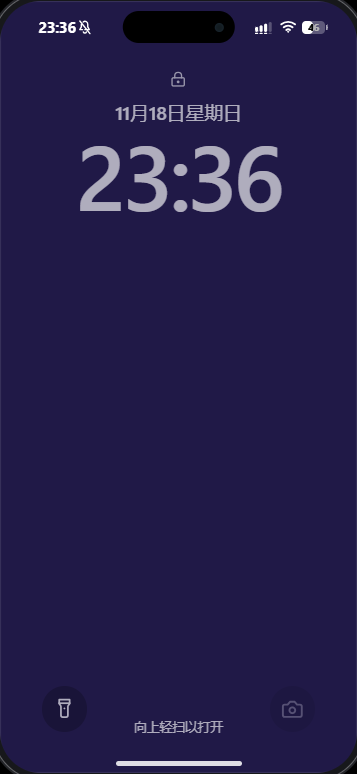
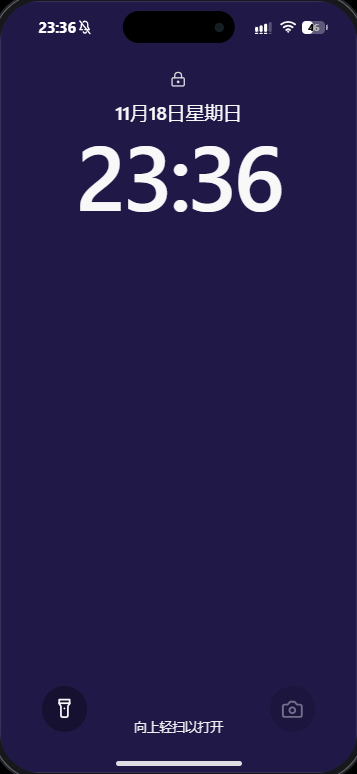
Add weather widget and enlarged calendar widget, weather app for 杭市, two-app dock

diff --git a/tests/release.spec.ts b/tests/release.spec.ts
@@ -1,6 +1,6 @@
 import { test, expect } from "@playwright/test";
 import { unlockPhone } from "./support/unlock";
-test("published default story, four dock apps and updated status bar", async ({
+test("published default story, home widgets and two dock apps", async ({
   page,
   request,
 }) => {
@@ -9,7 +9,7 @@ test("published default story, four dock apps and updated status bar", async ({
   expect(work.title).toBe("妈妈");
   expect(
     work.apps.filter((a: { installed: boolean }) => a.installed),
-  ).toHaveLength(12);
+  ).toHaveLength(13);
   expect(work.nodes).toHaveLength(0);
   const leftThread = (work.data.wechat ?? []).filter(
     (i: { title: string }) => i.title === "left",
@@ -24,7 +24,8 @@ test("published default story, four dock apps and updated status bar", async ({
     work.apps.filter(
       (a: { installed: boolean; dock: boolean }) => a.installed && a.dock,
     ),
-  ).toHaveLength(4);
+  ).toHaveLength(2);
+  expect(work.data.weather?.[0]?.title).toBe("杭市");
   const errors: string[] = [];
   page.on("pageerror", (e) => errors.push(e.message));
   await page.setViewportSize({ width: 393, height: 852 });
@@ -36,23 +37,57 @@ test("published default story, four dock apps and updated status bar", async ({
   await unlockPhone(page);
   await expect(page.locator(".lock-screen")).toHaveCount(0);
   await expect(page.locator(".interactive-home")).toHaveCSS("opacity", "1");
-  await expect(page.locator(".dock [data-home-key]")).toHaveCount(4);
+  await expect(page.locator(".dock [data-home-key]")).toHaveCount(2);
   await expect(page.locator(".status-silent")).toBeVisible();
   await expect(page.locator(".status-cellular")).toBeVisible();
   await expect(page.locator(".status-wifi")).toBeVisible();
+  // 天气卡 + 放大的日历卡靠上，其余 App 下移
+  const weatherWidget = page.getByRole("button", { name: "天气小组件" });
+  const calendarWidget = page.getByRole("button", { name: "日历小组件" });
+  await expect(weatherWidget).toBeVisible();
+  await expect(calendarWidget).toBeVisible();
+  const weatherBox = await weatherWidget.boundingBox();
+  const settingsBox = await page
+    .getByRole("button", { name: "打开设置" })
+    .boundingBox();
+  expect(weatherBox!.y).toBeLessThan(settingsBox!.y);
   await page
     .locator(".phone-screen")
     .screenshot({ path: "docs/images/home.png" });
   await page
     .locator(".status-bar")
     .screenshot({ path: "outputs/release/status-bar.png" });
-  // 精简版只保留 12 个 App，桌面不应再有 App Store / 其它内置应用
+  // 精简版桌面不应再有 App Store / 其它内置应用
   await expect(
     page.getByRole("button", { name: "打开App Store", exact: true }),
   ).toHaveCount(0);
   await expect(
     page.getByRole("button", { name: "打开抖音", exact: true }),
   ).toHaveCount(0);
+  // 天气小组件点击进入天气 App
+  await weatherWidget.click();
+  await expect(page.locator(".app-screen:not([inert])")).toHaveCSS(
+    "transform",
+    "none",
+  );
+  await expect(page.getByText("乌云转晴").first()).toBeVisible();
+  await page
+    .locator(".phone-screen")
+    .screenshot({ path: "docs/images/weather.png" });
+  await page.getByRole("button", { name: "返回桌面", exact: true }).click();
+  await expect(page.locator(".app-screen")).toHaveCount(0);
+  // 日历小组件点开日历 App，默认停在系统日期所在月份
+  await calendarWidget.click();
+  await expect(page.locator(".app-screen:not([inert])")).toHaveCSS(
+    "transform",
+    "none",
+  );
+  await expect(page.getByText("2040 年 11 月")).toBeVisible();
+  await page
+    .locator(".phone-screen")
+    .screenshot({ path: "docs/images/calendar.png" });
+  await page.getByRole("button", { name: "返回桌面", exact: true }).click();
+  await expect(page.locator(".app-screen")).toHaveCount(0);
   await page.getByRole("button", { name: "打开设置", exact: true }).click();
   await expect(page.getByRole("switch", { name: "飞行模式" })).toBeVisible();
   await expect(page.locator(".app-screen:not([inert])")).toHaveCSS(
@@ -64,7 +99,7 @@ test("published default story, four dock apps and updated status bar", async ({
     .screenshot({ path: "docs/images/settings.png" });
   await page.reload();
   await unlockPhone(page);
-  await expect(page.locator(".dock [data-home-key]")).toHaveCount(4);
+  await expect(page.locator(".dock [data-home-key]")).toHaveCount(2);
   expect(
     await page.evaluate(
       () => document.documentElement.scrollWidth <= innerWidth,

diff --git a/src/launcher/layout.test.ts b/src/launcher/layout.test.ts
@@ -1,5 +1,6 @@
 import { describe, it, expect } from "vitest";
 import blank from "../../stories/blank/story.json";
+import template from "../../stories/template/story.json";
 import { compileStory } from "../story-engine/compiler";
 import {
   defaultLayout,
@@ -95,8 +96,7 @@ it("adds store to legacy work without changing author data or other app states",
   ).toBe(true);
 });
 
-it("migrates preview folders once while preserving custom folders and widgets", async () => {
-  const preview = await import("../../stories/test-preview/story.json");
+it("migrates preview folders once while preserving custom folders and widgets", async () => {  const preview = await import("../../stories/test-preview/story.json");
   const w = compileStory(preview.default).work;
   const before = JSON.stringify(w);
   const old = defaultLayout(w);
@@ -116,4 +116,31 @@ it("migrates preview folders once while preserving custom folders and widgets", 
   expect(
     validateLayout(migrated, w).apps.find((a) => a.id === "wechat")!.folder,
   ).toBe("作者新建文件夹");
+});
+
+it("applies the story home preset: widgets on top, apps packed below", () => {
+  const w = compileStory(template).work;
+  const l = defaultLayout(w);
+  expect(l.widgets.map((x) => x.type)).toEqual(["weather", "calendar"]);
+  expect(l.widgets.map((x) => x.size)).toEqual(["small", "medium"]);
+  const pages = packHome(homeEntries(l), l.positions);
+  expect(pages).toHaveLength(1);
+  const cells = new Set<string>();
+  for (const entry of pages[0])
+    for (let y = entry.y; y < entry.y + entry.h; y++)
+      for (let x = entry.x; x < entry.x + entry.w; x++)
+        expect(cells.add(x + "," + y).size).toBe(cells.size);
+  const rows = (key: string) =>
+    pages[0].find((c) => c.entry.key === key)!.y;
+  expect(rows("widget-weather-home")).toBeLessThan(rows("calculator"));
+  expect(rows("widget-calendar-home")).toBeLessThan(rows("calculator"));
+  // Dock 只保留微信和备忘录，日历/天气由小组件代替
+  expect(
+    l.apps.filter((a) => a.installed && a.visible && a.dock).map((a) => a.id),
+  ).toEqual(["wechat", "notes"]);
+  expect(
+    l.apps.filter((a) => a.id === "calendar" || a.id === "weather").map(
+      (a) => a.visible,
+    ),
+  ).toEqual([false, false]);
 });

diff --git a/src/launcher/HomeLauncher.tsx b/src/launcher/HomeLauncher.tsx
@@ -65,15 +65,26 @@ function WidgetFace({
   const date = new Date((work.phone.date || "2026-10-25") + "T12:00:00Z");
   const weather = work.data.weather?.[0];
   return (
-    <div className={"widget-face widget-" + widget.type}>
+    <div
+      className={
+        "widget-face widget-" +
+        widget.type +
+        (widget.size === "small" ? "" : " widget-size-" + widget.size)
+      }
+    >
       {widget.type === "calendar" ? (
         <>
-          <span className="widget-red">
-            {new Intl.DateTimeFormat("zh-CN", {
-              weekday: "long",
-              timeZone: "UTC",
-            }).format(date)}
-          </span>
+          <div className="widget-calendar-head">
+            <span className="widget-red">
+              {new Intl.DateTimeFormat("zh-CN", {
+                weekday: "long",
+                timeZone: "UTC",
+              }).format(date)}
+            </span>
+            <span className="widget-calendar-month">
+              {date.getUTCMonth() + 1}月
+            </span>
+          </div>
           <b className="widget-day">{date.getUTCDate()}</b>
           <small>{work.data.calendar?.[0]?.title || "今天没有日程"}</small>
         </>
@@ -85,10 +96,21 @@ function WidgetFace({
         </>
       ) : widget.type === "weather" ? (
         <>
-          <small>{weather?.title || "未添加城市"}</small>
+          <div className="widget-weather-head">
+            <small>
+              {weather?.title || weather?.meta.locationLabel || "未添加城市"}
+            </small>
+            <CloudSun size={20} />
+          </div>
           <b>{weather?.meta.temperature || "—"}°</b>
-          <CloudSun size={27} />
-          <small>{weather?.meta.condition || "暂无天气数据"}</small>
+          <div className="widget-weather-foot">
+            <small>{weather?.meta.condition || "暂无天气数据"}</small>
+            {weather?.meta.high && (
+              <small>
+                {weather.meta.high}° / {weather.meta.low || "—"}°
+              </small>
+            )}
+          </div>
         </>
       ) : widget.type === "notes" ? (
         <>

diff --git a/src/launcher/layout.ts b/src/launcher/layout.ts
@@ -53,18 +53,74 @@ export function ensureAppStore(work: Work): Work {
         ],
       };
 }
+/** 作品默认桌面预设：小组件靠上、App 下移铺满（key = 作品 id） */
+const storyHomePresets: Record<
+  string,
+  {
+    widgets: { widget: Widget; at: [number, number] }[];
+    slots: [number, number][];
+  }
+> = {
+  // 《妈妈》：天气卡 + 放大的日历卡在上方，其余 App 依次排满下方
+  "foundphone-left": {
+    widgets: [
+      {
+        widget: { id: "widget-weather-home", type: "weather", size: "small" },
+        at: [2, 0],
+      },
+      {
+        widget: {
+          id: "widget-calendar-home",
+          type: "calendar",
+          size: "medium",
+        },
+        at: [0, 2],
+      },
+    ],
+    slots: [
+      [0, 0],
+      [1, 0],
+      [0, 1],
+      [1, 1],
+      [0, 4],
+      [1, 4],
+      [2, 4],
+      [3, 4],
+      [0, 5],
+      [1, 5],
+      [2, 5],
+      [3, 5],
+    ],
+  },
+};
 export function defaultLayout(input: Work): DeviceLayout {
   const w = ensureAppStore(input);
+  const preset = storyHomePresets[w.id];
+  const widgets = preset ? preset.widgets.map((x) => ({ ...x.widget })) : [];
+  const positions: DeviceLayout["positions"] = {};
+  const order: string[] = widgets.map((x) => x.id);
+  if (preset) {
+    for (const { widget, at } of preset.widgets)
+      positions[widget.id] = { page: 0, x: at[0], y: at[1] };
+    let slot = 0;
+    for (const app of w.apps) {
+      if (!app.installed || !app.visible || app.dock) continue;
+      if (slot >= preset.slots.length) break;
+      const [x, y] = preset.slots[slot++];
+      positions[app.id] = { page: 0, x, y };
+      order.push(app.id);
+    }
+  }
   return {
     version: 1,
     workId: w.id,
     previewLayoutRevision: w.id === "ui-test-phone-v2" ? 1 : 0,
     appsFingerprint: appFingerprint(w),
     apps: structuredClone(w.apps),
-    widgets: [],
-    order: [],
+    widgets,
+    order,
     cleared: [],
-    positions: {},
+    positions,
   };
 }
 /** 作品装了的 App 集合指纹：作者增删 App 后，本地旧布局整体失效 */

diff --git a/src/launcher/launcher.css b/src/launcher/launcher.css
@@ -158,6 +158,46 @@
   justify-content: center;
   gap: 16px;
 }
+.ios18 .widget-calendar.widget-size-medium {
+  justify-content: center;
+  gap: 8px;
+}
+.ios18 .widget-calendar.widget-size-medium .widget-day {
+  font-size: 64px;
+}
+.ios18 .widget-calendar.widget-size-medium small {
+  font-size: 15px;
+}
+.ios18 .widget-calendar-head {
+  display: flex;
+  align-items: center;
+  justify-content: space-between;
+  gap: 10px;
+  width: 100%;
+}
+.ios18 .widget-calendar-month {
+  font-size: 12px;
+  color: #8a8a8e;
+}
+.ios18 .widget-weather.widget-size-small b {
+  font-size: 36px;
+}
+.ios18 .widget-weather-head,
+.ios18 .widget-weather-foot {
+  display: flex;
+  align-items: center;
+  justify-content: space-between;
+  gap: 8px;
+  width: 100%;
+}
+.ios18 .widget-weather-foot small {
+  opacity: 0.86;
+  letter-spacing: 0.2px;
+}
+.ios18 .widget-weather-head svg {
+  flex: none;
+  opacity: 0.92;
+}
 .ios18 .interactive-home [data-drop-zone="dock"] {
   position: absolute;
   bottom: 14px;
